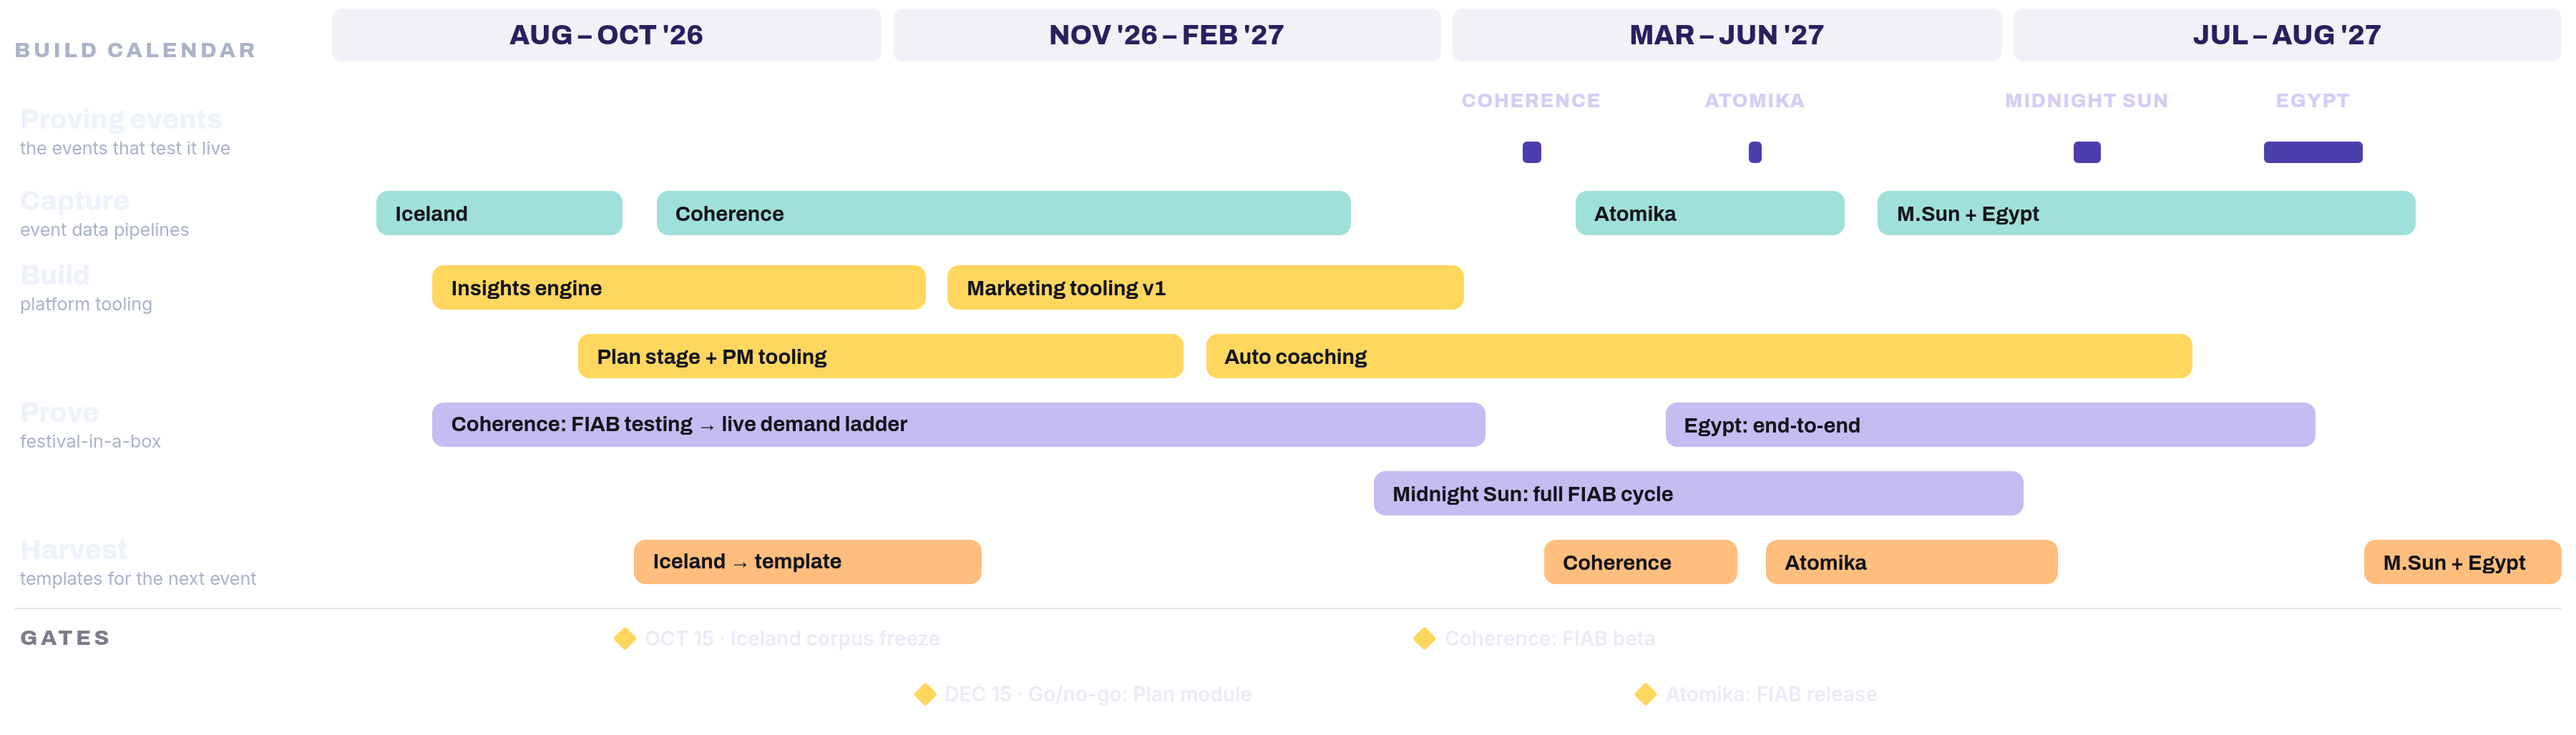
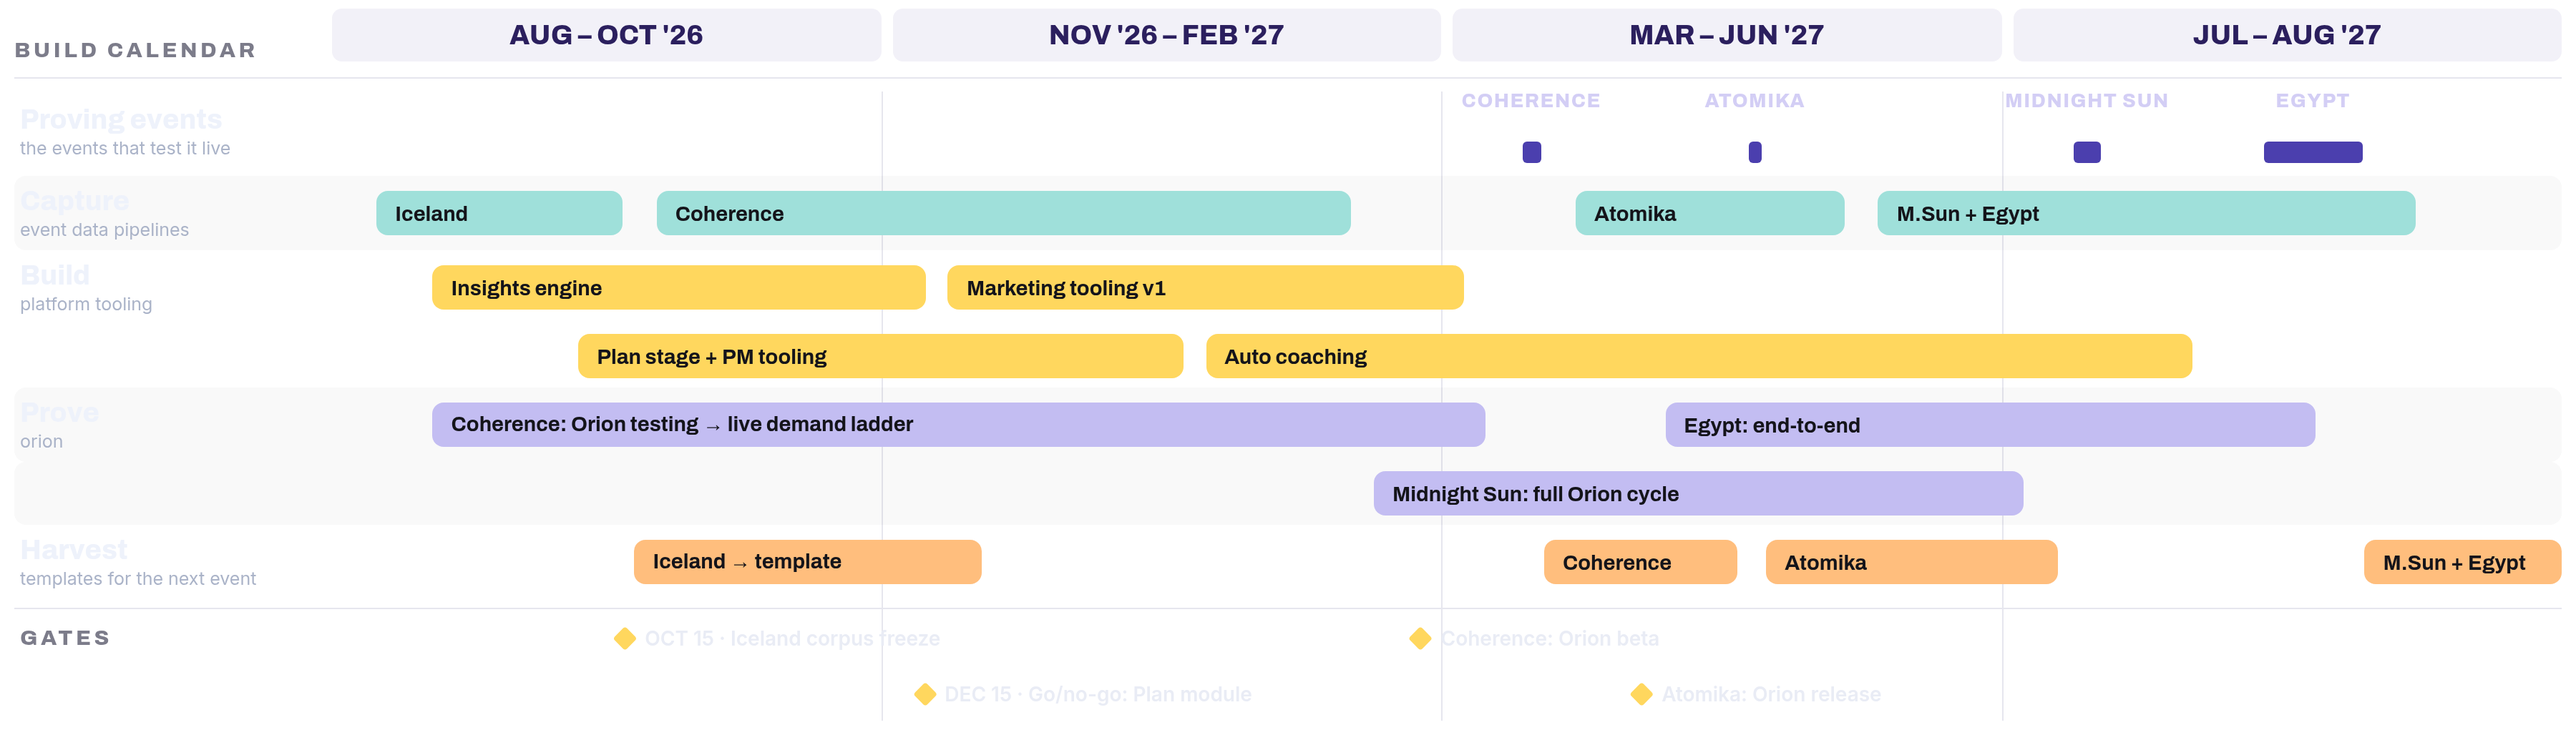
Restore the 14-slide arc; apply the sheet's copy changes only
Reverses the slide cut in 07365a6. All 14 slides are back (The Eclipse,
The Proof, The Reach, Egypt, The Business, The Horizon), and only
Benjamin's copy edits from the storyboard sheet are applied:

- Cover: "IMXP: Scaling Human Experiences"
- Thesis (was The Demand): new headline, body trimmed to the sheet
- The Problem: "Tools aren't growing to match real world demand."
- The Solution: Festival in a Box renamed to "Orion: IMXP's Event
  Technology Platform"; modules merged 7 to 6
- Where it Stands: headline now the sheet's subheadline
- All Upcoming Events: "Our complete test bench", new subheadline

Build-roadmap chart relabelled FIAB to Orion, and the dark variant is now
generated by scripts/render-gantt.js instead of being a hand-made file,
so both PNGs stay in sync with the HTML source from here on.

The demo video poster and the video itself still read "Festival in a Box";
those need re-rendering from their own source.

diff --git a/index.html b/index.html
@@ -250,7 +250,58 @@
     </div>
   </section>
 
-  <!-- 2 · THESIS -->
+  <!-- 2 · THE ECLIPSE -->
+  <section class="slide ph">
+    <div class="bg kb" style="background-image:url('media/photos/eclipse.jpg')"></div>
+    <div class="tone"></div><div class="veil" style="background:linear-gradient(180deg,rgba(9,8,6,.55),rgba(9,8,6,.32) 34%,rgba(9,8,6,.66) 64%,rgba(9,8,6,.92))"></div><div class="grain"></div>
+    <div class="hd"><img class="mk" src="imxp-logo.png" alt="IMXP" /></div>
+    <div class="pad">
+      <div class="r kick">The Eclipse</div>
+      <h2 class="r mt-xs">For two minutes, thousands of strangers watched the sun fade to darkness, and re-emerge.</h2>
+      <div class="r sub mt-s">Iceland Eclipse · 12 August 2026 · Snæfellsnes Peninsula</div>
+      <div class="r names sm mt-s"><span>17:47 UTC</span><i>·</i><span>2 min 7 sec</span><i>·</i><span>Iceland's first totality since 1954</span><i>·</i><span>next in 2196</span></div>
+    </div>
+  </section>
+
+  <!-- 3 · THE PROOF -->
+  <section class="slide ph">
+    <div class="bg kb" style="background-image:url('media/photos/proof.jpg')"></div>
+    <div class="tone"></div><div class="veil"></div><div class="grain"></div>
+    <div class="hd"><img class="mk" src="imxp-logo.png" alt="IMXP" /></div>
+    <div class="pad">
+      <div class="r kick">The Proof</div>
+      <h2 class="r mt-xs">Iceland Eclipse, delivered.</h2>
+      <div class="r figs mt">
+        <div class="fig"><div class="n">4,200</div><div class="l">participants</div></div>
+        <div class="fig"><div class="n sky">75</div><div class="l">countries</div></div>
+        <div class="fig"><div class="n paper">250</div><div class="l">artists &amp; speakers</div></div>
+        <div class="fig"><div class="n sage">$4.2M</div><div class="l">revenue · sold out</div></div>
+      </div>
+      <div class="r names sm mt"><span>300 children</span><i>·</i><span>5 days</span><i>·</i><span>The Portal, 571 applicants, month-long residency</span></div>
+      <div class="r lead mt-s" style="color:var(--paper)">Partners on site included the United Nations, NASA, OpenAI, MAPS and Playing for Change.</div>
+    </div>
+  </section>
+
+  <!-- 4 · THE REACH -->
+  <section class="slide ph">
+    <div class="bg kb" style="background-image:url('media/photos/reach.jpg')"></div>
+    <div class="tone"></div><div class="veil"></div><div class="grain"></div>
+    <div class="hd"><img class="mk" src="imxp-logo.png" alt="IMXP" /></div>
+    <div class="pad">
+      <div class="r kick">The Reach</div>
+      <h2 class="r sm mt-xs">Our story traveled the world.</h2>
+      <div class="r sub mt-s">From The New York Times to a live SETI broadcast, and totality captured from the edge of space.</div>
+      <div class="r figs mt">
+        <div class="fig"><div class="n">50M</div><div class="l">estimated impressions</div></div>
+        <div class="fig"><div class="n sky">1.5M</div><div class="l">page views</div></div>
+        <div class="fig"><div class="n paper">750K</div><div class="l">unique visitors</div></div>
+        <div class="fig"><div class="n sage">100K+</div><div class="l">email list · 44K+ Instagram</div></div>
+      </div>
+      <div class="r names sm mt-s"><span>The New York Times</span><i>·</i><span>CNN</span><i>·</i><span>SETI Institute</span><i>·</i><span>Billboard</span><i>·</i><span>Space.com</span><i>·</i><span>Condé Nast Traveler</span><i>·</i><span>Dazed</span></div>
+    </div>
+  </section>
+
+  <!-- 5 · THE DEMAND -->
   <section class="slide ph">
     <div class="bg kb" style="background-image:url('media/photos/demand.jpg')"></div>
     <div class="tone"></div><div class="veil"></div><div class="grain"></div>
@@ -268,7 +319,63 @@
     </div>
   </section>
 
-  <!-- 3 · THE PROBLEM -->
+  <!-- 6 · WHAT'S NEXT · EGYPT -->
+  <section class="slide ph">
+    <div class="bg kb" style="background-image:url('media/photos/egypt.jpg');background-position:center 42%"></div>
+    <div class="tone"></div><div class="veil" style="background:linear-gradient(103deg,rgba(9,8,6,.86) 0%,rgba(9,8,6,.5) 42%,rgba(9,8,6,.12) 70%,rgba(9,8,6,.3) 100%)"></div><div class="grain"></div>
+    <div class="hd"><img class="mk" src="imxp-logo.png" alt="IMXP" /></div>
+    <div class="pad">
+      <div class="r kick">What's Next</div>
+      <h2 class="r sm mt-xs">The longest totality of our lifetimes, in Egypt.</h2>
+      <div class="r sub mt-s">Egypt Eclipse · Luxor and the Nile · 30 July to 9 August 2027</div>
+      <div class="r lead mt-s" style="color:var(--paper);max-width:56ch">A seven-night voyage down the Nile from Aswan to Luxor. Historic hotels and private residences on the West Bank, chartered boats for families and groups, and three nights at the pyramids after.</div>
+      <div class="r figs mt">
+        <div class="fig"><div class="n">6:23</div><div class="l">minutes of totality</div></div>
+        <div class="fig"><div class="n sky">~80%</div><div class="l">clear-sky probability in Luxor</div></div>
+      </div>
+    </div>
+  </section>
+
+  <!-- 7 · ALL UPCOMING EVENTS (flyboard bg + tiles) -->
+  <section class="slide ph">
+    <div class="bg kb" style="background-image:url('media/photos/horizon.jpg');background-position:center 40%"></div>
+    <div class="tone"></div><div class="veil btm"></div><div class="grain"></div>
+    <div class="hd"><img class="mk" src="imxp-logo.png" alt="IMXP" /></div>
+    <div class="pad">
+      <div class="r kick">All Upcoming Events</div>
+      <h2 class="r sm mt-xs">Our complete test bench, 2027 and beyond.</h2>
+      <div class="r sub mt-s">Running now, and getting sharper: Capture and the Vault are live.</div>
+      <div class="r tiles mt">
+        <div class="tile"><div class="th"><img src="media/events/coherence.jpg" alt="Coherence"/></div><div class="tb"><div class="tn">Coherence</div><div class="tp">Texas Hill Country</div><div class="td">Mar 19–22, 2027</div></div></div>
+        <div class="tile"><div class="th"><img src="media/events/atomika.jpg" alt="Atomika"/></div><div class="tb"><div class="tn">Atomika</div><div class="tp">Roswell, New Mexico</div><div class="td">May 7–9, 2027</div></div></div>
+        <div class="tile"><div class="th"><img src="media/events/midnight.jpg" alt="Midnight Sun Festival"/></div><div class="tb"><div class="tn">Midnight Sun</div><div class="tp">Reykjavík, Iceland</div><div class="td">Jul 9–11, 2027</div></div></div>
+        <div class="tile"><div class="th"><img src="media/events/egypt.jpg" alt="Egypt Eclipse"/></div><div class="tb"><div class="tn">Egypt Eclipse</div><div class="tp">Luxor &amp; Greater Egypt</div><div class="td">Jul 30 – Aug 9, 2027</div></div></div>
+        <div class="tile"><div class="th"><img src="media/events/australasia.jpg" alt="Australasia Eclipse"/></div><div class="tb"><div class="tn">Australasia</div><div class="tp">Location to be announced</div><div class="td">July 2028</div></div></div>
+      </div>
+      <div class="r cite mt-s">Beyond 2028: South Africa Eclipse, Apophis, and the Antarctic Expedition (2029–30+), continuing IMXP's global expansion.</div>
+    </div>
+  </section>
+
+  <!-- 8 · THE BUSINESS -->
+  <section class="slide ph">
+    <div class="bg kb" style="background-image:url('media/photos/biz-stage.jpg')"></div>
+    <div class="tone"></div><div class="veil"></div><div class="grain"></div>
+    <div class="hd"><img class="mk" src="imxp-logo.png" alt="IMXP" /></div>
+    <div class="pad">
+      <div class="r kick">The Business</div>
+      <h2 class="r sm mt-xs">People pay a year ahead to be somewhere that happens once.</h2>
+      <div class="r sub mt-s">High prices, cash upfront, and the same community.</div>
+      <div class="r lead mt-s" style="color:var(--paper)">Egypt pathways run to $9,999 and deposits land a year before the build. Iceland's Seekers are the demand for Egypt, so we never pay to find them twice.</div>
+      <div class="r figs biz mt">
+        <div class="fig"><div class="n">$3.3B</div><div class="l">Live Nation deferred revenue into 2025</div><div class="src">SEC filing, Feb 2025</div></div>
+        <div class="fig"><div class="n">€1.3B</div><div class="l">KKR for 80 festivals, ~10.8× EBITDA</div><div class="src">Superstruct acquisition</div></div>
+        <div class="fig"><div class="n">$41.5B</div><div class="l">live music by 2030</div><div class="src">PwC Outlook, Jun 2026</div></div>
+        <div class="fig"><div class="n">~$1T</div><div class="l">wellness tourism</div><div class="src">Global Wellness Institute, 2024</div></div>
+      </div>
+    </div>
+  </section>
+
+  <!-- 9 · THE PROBLEM (zoomed out build photo) -->
   <section class="slide ph">
     <div class="bg" style="background-image:url('media/photos/problem.jpg');transform:scale(1);transform-origin:center;background-position:center"></div>
     <div class="tone"></div><div class="veil"></div><div class="grain"></div>
@@ -286,7 +393,7 @@
     </div>
   </section>
 
-  <!-- 4 · THE SOLUTION · ORION -->
+  <!-- 10 · THE SOLUTION · ORION (modules + demo video) -->
   <section class="slide ph">
     <div class="bg kb" style="background-image:url('media/photos/fiab-stage2.jpg')"></div>
     <div class="tone"></div><div class="veil" style="background:linear-gradient(180deg,rgba(9,8,6,.82),rgba(9,8,6,.6) 40%,rgba(9,8,6,.82))"></div><div class="grain"></div>
@@ -312,7 +419,7 @@
     </div>
   </section>
 
-  <!-- 5 · WHERE IT STANDS -->
+  <!-- 11 · WHERE IT STANDS -->
   <section class="slide ph">
     <div class="bg kb" style="background-image:url('media/photos/stands-build.jpg')"></div>
     <div class="tone"></div><div class="veil"></div><div class="grain"></div>
@@ -334,27 +441,7 @@
     </div>
   </section>
 
-  <!-- 6 · ALL UPCOMING EVENTS -->
-  <section class="slide ph">
-    <div class="bg kb" style="background-image:url('media/photos/horizon.jpg');background-position:center 40%"></div>
-    <div class="tone"></div><div class="veil btm"></div><div class="grain"></div>
-    <div class="hd"><img class="mk" src="imxp-logo.png" alt="IMXP" /></div>
-    <div class="pad">
-      <div class="r kick">All Upcoming Events</div>
-      <h2 class="r sm mt-xs">Our complete test bench, 2027 and beyond.</h2>
-      <div class="r sub mt-s">Running now, and getting sharper: Capture and the Vault are live.</div>
-      <div class="r tiles mt">
-        <div class="tile"><div class="th"><img src="media/events/coherence.jpg" alt="Coherence"/></div><div class="tb"><div class="tn">Coherence</div><div class="tp">Texas Hill Country</div><div class="td">Mar 19–22, 2027</div></div></div>
-        <div class="tile"><div class="th"><img src="media/events/atomika.jpg" alt="Atomika"/></div><div class="tb"><div class="tn">Atomika</div><div class="tp">Roswell, New Mexico</div><div class="td">May 7–9, 2027</div></div></div>
-        <div class="tile"><div class="th"><img src="media/events/midnight.jpg" alt="Midnight Sun Festival"/></div><div class="tb"><div class="tn">Midnight Sun</div><div class="tp">Reykjavík, Iceland</div><div class="td">Jul 9–11, 2027</div></div></div>
-        <div class="tile"><div class="th"><img src="media/events/egypt.jpg" alt="Egypt Eclipse"/></div><div class="tb"><div class="tn">Egypt Eclipse</div><div class="tp">Luxor &amp; Greater Egypt</div><div class="td">Jul 30 – Aug 9, 2027</div></div></div>
-        <div class="tile"><div class="th"><img src="media/events/australasia.jpg" alt="Australasia Eclipse"/></div><div class="tb"><div class="tn">Australasia</div><div class="tp">Location to be announced</div><div class="td">July 2028</div></div></div>
-      </div>
-      <div class="r cite mt-s">Beyond 2028: South Africa Eclipse, Apophis, and the Antarctic Expedition (2029–30+), continuing IMXP's global expansion.</div>
-    </div>
-  </section>
-
-  <!-- 7 · THE TEAM -->
+  <!-- 12 · THE TEAM -->
   <section class="slide ph">
     <div class="bg kb" style="background-image:url('media/photos/team-speaker.jpg');background-position:center 40%"></div>
     <div class="tone"></div><div class="veil" style="background:linear-gradient(180deg,rgba(9,8,6,.8),rgba(9,8,6,.4) 40%,rgba(9,8,6,.62) 78%,rgba(9,8,6,.93))"></div><div class="grain"></div>
@@ -384,7 +471,19 @@
     </div>
   </section>
 
-  <!-- 8 · CLOSE -->
+  <!-- 13 · THE HORIZON -->
+  <section class="slide ph center">
+    <div class="bg kb" style="background-image:url('media/photos/aurora-streak.jpg')"></div>
+    <div class="tone"></div><div class="veil"></div><div class="grain"></div>
+    <div class="hd"><img class="mk" src="imxp-logo.png" alt="IMXP" /></div>
+    <div class="pad mid center" style="align-items:center;text-align:center">
+      <div class="r kick">The Horizon</div>
+      <div class="r statement mt-s" style="max-width:22ch;margin:0 auto">IMXP brings humans into alignment with themselves, our planet, and the <em>Cosmos</em>.</div>
+      <div class="r sub mt" style="max-width:42ch;margin:0 auto;text-align:center">We are building the systems to one day see a total solar eclipse from the Moon.</div>
+    </div>
+  </section>
+
+  <!-- 14 · CLOSE -->
   <section class="slide ph center">
     <div class="bg kb" style="background-image:url('media/photos/close.jpg')"></div>
     <div class="tone"></div><div class="veil"></div><div class="grain"></div>
@@ -429,7 +528,7 @@ addEventListener('wheel',e=>{const t=Date.now();if(t-wl<760)return;
   if(Math.abs(e.deltaY)>26||Math.abs(e.deltaX)>26){wl=t;(e.deltaY+e.deltaX)>0?next():prev();}},{passive:true});
 const start=parseInt((location.hash||'').replace('#',''),10);
 go(start>=1&&start<=slides.length?start-1:0);
-['media/photos/demand.jpg','media/photos/problem.jpg','media/photos/fiab-stage2.jpg'].forEach(u=>{const im=new Image();im.src=u;});
+['media/photos/eclipse.jpg','media/photos/proof.jpg','media/photos/reach.jpg'].forEach(u=>{const im=new Image();im.src=u;});
 (function(){const pb=document.getElementById('playbtn');if(!pb||!vid)return;
   pb.addEventListener('click',()=>{vid.controls=true;pb.classList.add('gone');vid.play();});})();
 </script>

diff --git a/media/people/product-gantt.html b/media/people/product-gantt.html
@@ -62,6 +62,15 @@
   .gate{position:absolute;top:50%;transform:translateY(-50%);display:flex;align-items:center;gap:8px;
         color:var(--ink);font-family:var(--sans);font-weight:600;font-size:14px;white-space:nowrap}
   .dia{width:12px;height:12px;background:var(--amber);transform:rotate(45deg);flex:none;border-radius:2px}
+
+  /* ---- dark variant ----
+     Rendered to product-gantt-dark.png for the dark "Where it Stands" slide.
+     Only the text that sits directly on the slide is lightened; labels that sit
+     on their own light chips (bars, band headers, GATES) keep the dark ink. */
+  body.dark .rlab{color:#eef2fb}
+  body.dark .rlab small{color:#aab3c8}
+  body.dark .gate{color:#e9ecf5}
+  body.dark .pevlab{color:#d3cef5}
 </style>
 </head>
 <body>
@@ -121,16 +130,16 @@
   </div>
 
   <div class="row band-alt">
-    <div class="rlab">Prove<small>festival-in-a-box</small></div>
+    <div class="rlab">Prove<small>orion</small></div>
     <div class="track">
-      <div class="bar prv" style="left:5%;width:47%">Coherence: FIAB testing &rarr; live demand ladder</div>
+      <div class="bar prv" style="left:5%;width:47%">Coherence: Orion testing &rarr; live demand ladder</div>
       <div class="bar prv" style="left:60%;width:29%">Egypt: end-to-end</div>
     </div>
   </div>
   <div class="row band-alt" style="min-height:44px">
     <div class="rlab"></div>
     <div class="track" style="height:44px">
-      <div class="bar prv" style="left:47%;width:29%">Midnight Sun: full FIAB cycle</div>
+      <div class="bar prv" style="left:47%;width:29%">Midnight Sun: full Orion cycle</div>
     </div>
   </div>
 
@@ -148,14 +157,14 @@
     <div class="rlab" style="font-size:15px;letter-spacing:.15em;text-transform:uppercase;color:var(--grey)">Gates</div>
     <div class="track" style="height:40px">
       <div class="gate" style="left:20.43%;transform:translate(-50%,-50%)"><span class="dia"></span>OCT 15 &middot; Iceland corpus freeze</div>
-      <div class="gate" style="left:54.23%;transform:translate(-50%,-50%)"><span class="dia"></span>Coherence: FIAB beta</div>
+      <div class="gate" style="left:54.23%;transform:translate(-50%,-50%)"><span class="dia"></span>Coherence: Orion beta</div>
     </div>
   </div>
   <div class="row" style="min-height:38px">
     <div class="rlab"></div>
     <div class="track" style="height:38px">
       <div class="gate" style="left:34.07%;transform:translate(-50%,-50%)"><span class="dia"></span>DEC 15 &middot; Go/no-go: Plan module</div>
-      <div class="gate" style="left:64.11%;transform:translate(-50%,-50%)"><span class="dia"></span>Atomika: FIAB release</div>
+      <div class="gate" style="left:64.11%;transform:translate(-50%,-50%)"><span class="dia"></span>Atomika: Orion release</div>
     </div>
   </div>
 

diff --git a/scripts/render-gantt.js b/scripts/render-gantt.js
@@ -1,4 +1,5 @@
-// Renders media/people/product-gantt.html -> media/people/product-gantt.png (transparent)
+// Renders media/people/product-gantt.html -> product-gantt.png + product-gantt-dark.png
+// (both transparent). The deck's "Where it Stands" slide uses the -dark one.
 // Usage: node scripts/render-gantt.js
 const { chromium } = require('playwright');
 const path = require('path');
@@ -11,6 +12,12 @@ const path = require('path');
   await page.waitForTimeout(1200); // webfonts
   const el = await page.$('body');
   await el.screenshot({ path: path.join(root, 'media/people/product-gantt.png'), omitBackground: true });
-  await browser.close();
   console.log('rendered media/people/product-gantt.png');
+
+  await page.evaluate(() => document.body.classList.add('dark'));
+  await page.waitForTimeout(200);
+  await el.screenshot({ path: path.join(root, 'media/people/product-gantt-dark.png'), omitBackground: true });
+  console.log('rendered media/people/product-gantt-dark.png');
+
+  await browser.close();
 })();

diff --git a/README.md b/README.md
@@ -1,8 +1,9 @@
 # IMXP — Info Deck
 
 A hand-coded, editorial web deck for IMXP's raise. Built verbatim from the
-storyboard tab of the IMXP Content Editor (Google Sheet): cover → thesis →
-problem → solution (Orion) → where it stands → upcoming events → team → close.
+storyboard tab of the IMXP Content Editor (Google Sheet): the full investor
+narrative — hook → proof → reach → market → problem → solution → business →
+team → horizon.
 
 ## Design — its own identity
 
@@ -17,7 +18,7 @@ Deliberately distinct from IMXP's other decks (which run Archivo + a pastel
 - **Layout:** magazine masthead + running foot, hairline rules, a giant index
   numeral, big serif numbers, and a **photographer credit** on every photo
   slide. A warm duotone grade unifies many different images into one deck.
-- **8 slides**, 16:9, self-contained (one CDN dependency: Google Fonts).
+- **14 slides**, 16:9, self-contained (one CDN dependency: Google Fonts).
 
 ## Photography
 
@@ -40,21 +41,20 @@ https://ugla-ctrl.github.io/imxp-fundraise-deck/
 
 ## Slide order
 
-1. Cover — Immersive Experiences at Global Scale
+1. Cover — IMXP: Scaling Human Experiences
 2. The Eclipse — the emotional beat
 3. The Proof — Iceland Eclipse, delivered
 4. The Reach — press & audience
-5. The Demand — why this is a category
+5. Thesis — why this is a category
 6. What's Next — Egypt, the longest totality
 7. Upcoming Events — the full slate
 8. The Business — presale float, comps
-9. The Problem — production eats the margin
-10. The Solution — Festival in a Box
-11. FIAB — technology demo (video)
-12. Where it Stands — live / in build / proving ground
-13. The Team — the people who have already done this
-14. The Horizon — a total solar eclipse from the Moon
-15. Close — thank you
+9. The Problem — tools aren't growing to match demand
+10. The Solution — Orion, with the technology demo video
+11. Where it Stands — live / in build / proving ground
+12. The Team — the people who have already done this
+13. The Horizon — a total solar eclipse from the Moon
+14. Close — thank you
 
 No funding ask on the page, per Mitch — the close is contact only.
 
